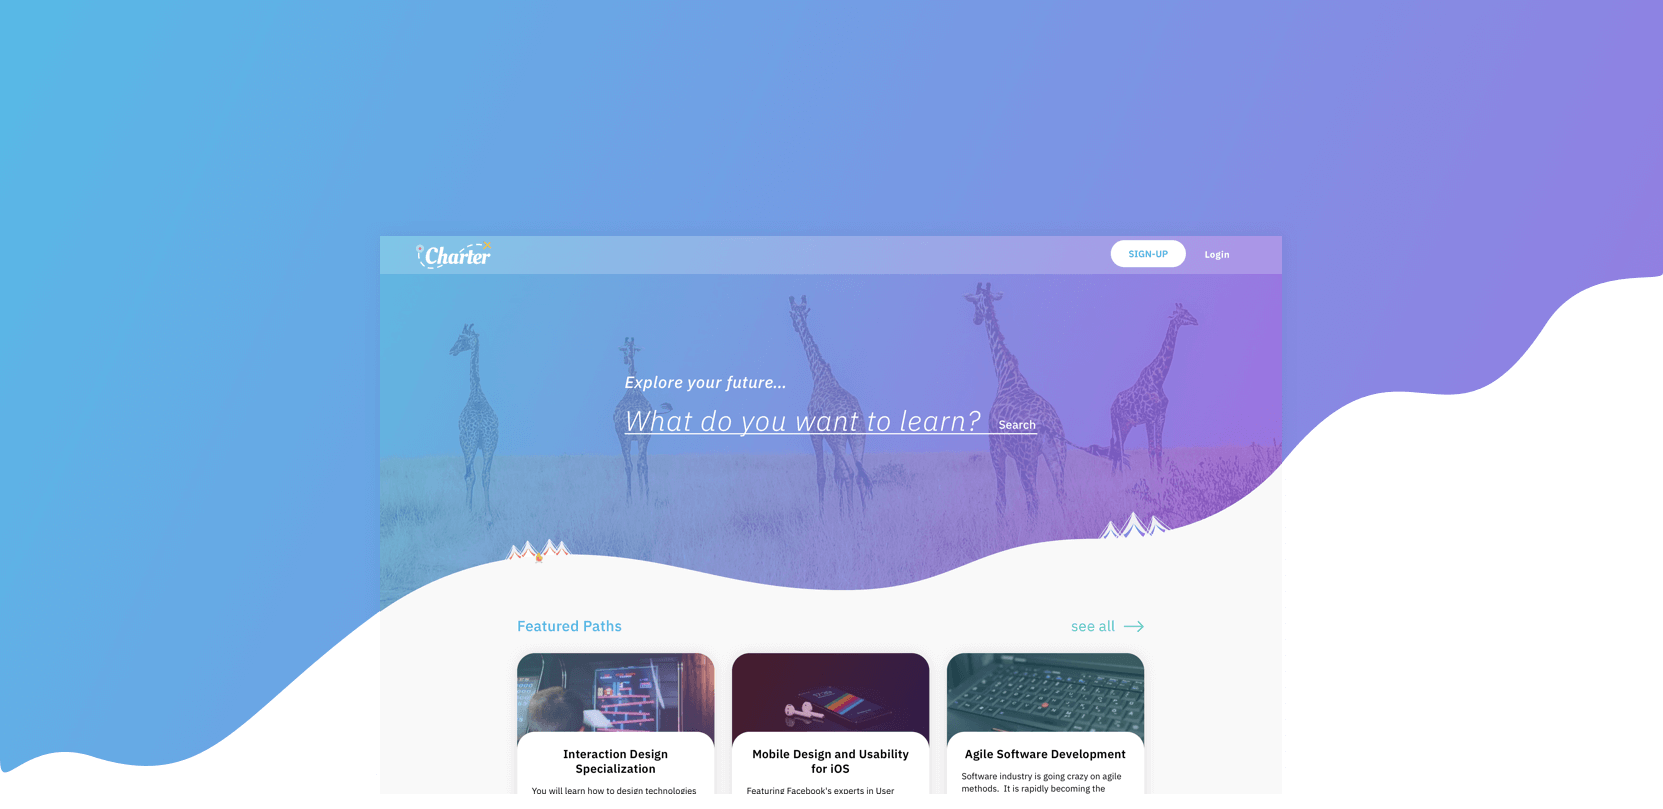
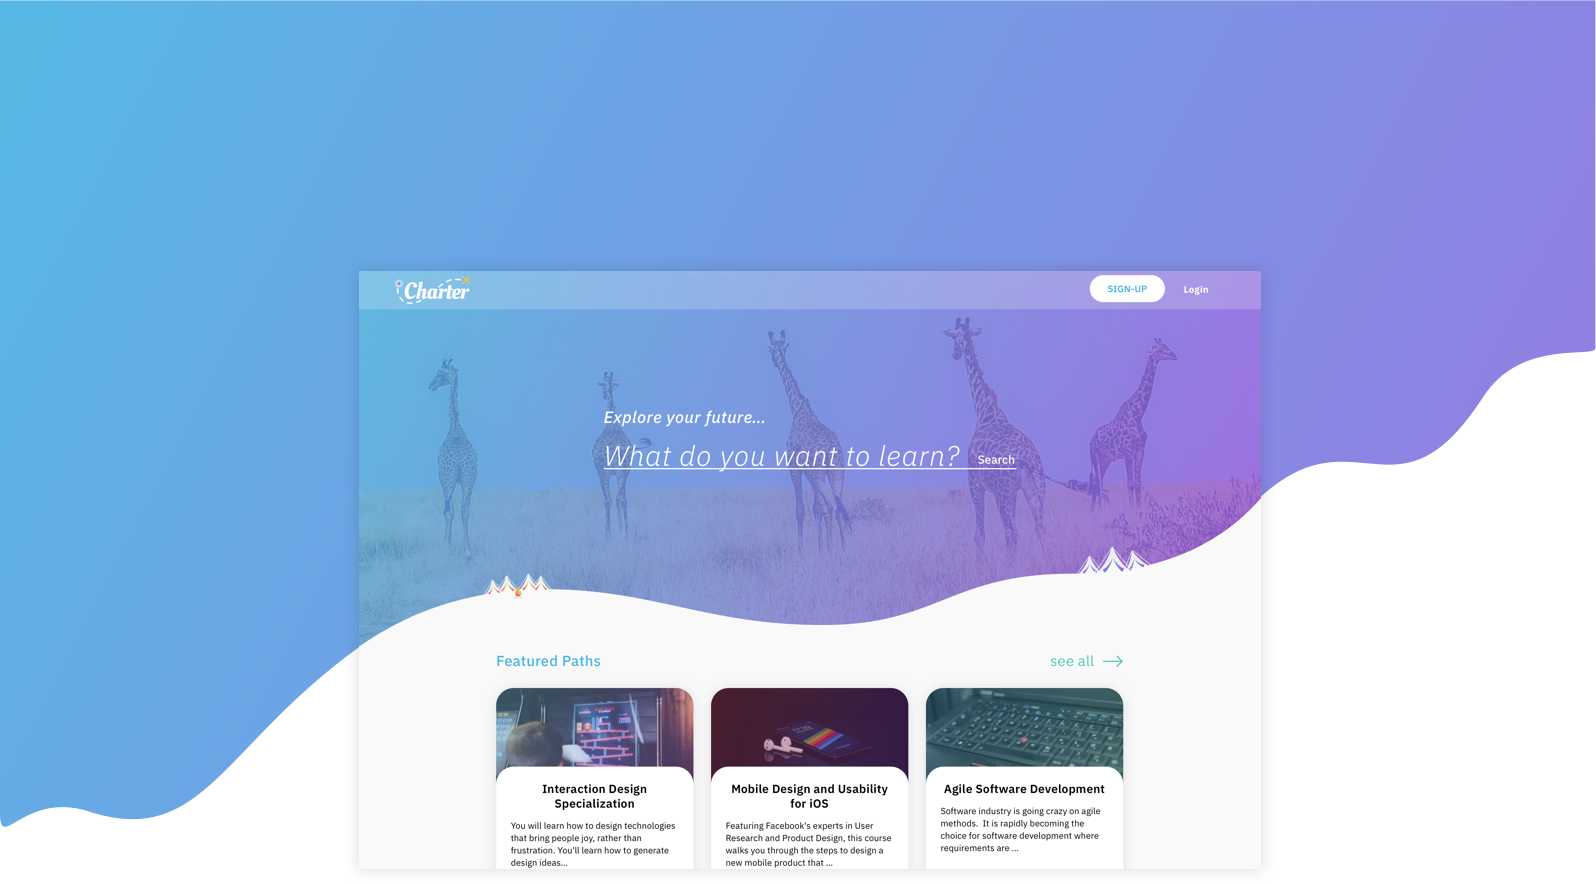
Added additional media queries

diff --git a/charter.html b/charter.html
@@ -82,7 +82,7 @@
 
 
       <section class="colored">
-        <div class="center ">
+        <div class="">
           <div class="  small-third align-left mobile-full">
             <h4 class="h4 align-left ">Design Role</h4>
             <ul class="med-text">
@@ -106,15 +106,15 @@
               <li class="design-role">Visual Design</li>
             </ul>
           </div>
-          <div class=" small-third align-left mobile-full">
+          <div class=" large-third-2 mobile-full">
             <h4 class="h4 align-left">Tools</h4>
-            <ul class="med-text left">
+            <ul class="med-text align-left left">
               <li class="design-role">Sketch</li>
               <li class="design-role">InVision</li>
               <li class="design-role">Photoshop</li>
               <li class="design-role">Illustrator</li>
             </ul>
-            <ul class="med-text right">
+            <ul class="med-text  align-left right">
               <li class="design-role">Usability Hub</li>
               <li class="design-role">Maze</li>
               <li class="design-role">Zeplin</li>
@@ -202,8 +202,8 @@
               <p class="percent-desc">said they wished better resources were suggested to them</p>
             </div>
             <div class="third mobile-half">
-              <h3>91%</h3>
-              <p class="percent-desc">said that knowing who you are sharing with and who has access to a file is very important</p>
+              <h3>65%</h3>
+              <p class="percent-desc">said that third party reviews and instructor bios weighed on their decision to take a course heavily.</p>
             </div>
             <div class="third mobile-half">
               <h3>44%</h3>
@@ -399,26 +399,20 @@
             <div class="half align-top">
               <img class="ab-desk-img" src="images/charter/iter-courseinfo-1.png" alt="home screen iteration 1"/>
               <p class="center caption">Iteration 1</p>
-              <div class="persona-l padding-top">
-                <p class="caseStudy-text">1. &ldquo;Fun but very feminine&rdquo;</p>
-                <p class="caseStudy-text">2. &ldquo;Are the things in the bubbles the only types of courses on this site?&rdquo; </p>
-                <p class="caseStudy-text">3. &ldquo;Why isn’t there a search bar?&rdquo;</p>
-              </div>
             </div>
             <div class="half align-top">
               <img class="ab-desk-img"src="images/charter/iter-courseinfo-2.png" alt="home screen iteration 2"/>
               <p class="center caption">Iteration 2</p>
-              <div class="persona-r padding-top">
-                <p class="caseStudy-text">1. &ldquo;what us this site for?&rdquo;</p>
-                <p class="caseStudy-text">2. &ldquo;Why do you ask me what I want to learn without giving me somewhere to type?&rdquo;</p>
-              </div>
             </div>
             <div class="iteration-info">
               <section class="course-info align-top">
-                <img class="" src="images/charter/iter-courseinfo-info.png" alt="home screen iteration 3"/>
-                <p class="center caption">Iteration 2</p>
+                <img class="off" src="images/charter/iter-courseinfo-info.png" alt="home screen iteration 3"/>
+                <p class="center caption off ">Iteration 2</p>
               </section>
               <section class="quarter align-top">
+                <div class="info-snippet">
+                  <p class="caseStudy-text ">These are the seven changes that were made in the course page.</p>
+                </div>
                 <div class="info-snippet">
                   <div class="number-oval left"><p>1</p></div>
                   <p class="caseStudy-text ">Adding a back arrow made it more obvious when skimming the page that this is a backlink</p>
@@ -504,7 +498,6 @@
                   <p class="caseStudy-text">Lets put all of that branding and user testing to work.</p>
                 </div>
                 <div class="">
-                  <img class="off hidden"src="videos/charter2.gif"/>
                   <div class="align-top col-1-desktop ">
                     <img class=" screen hidden" src="images/charter/final-1.png" alt="final screens for desktop"/>
                     <img class=" screen hidden" src="images/charter/final-2.png" alt="final screens for desktop"/>

diff --git a/styles/charter.css b/styles/charter.css
@@ -1,12 +1,12 @@
 body{
   background-color: #F9F9F9;
 }
-header.main{
+header.main {
   background-image: url(../images/charter/large-charter-3.png);
-  background-size: cover;
-  background-repeat:none;
-  background-position: center;
-  height:800px;
+  background-size: contain;
+  background-repeat: no-repeat;
+  background-position: top;
+  height:940px;
   width:100%;
   max-width: none;
 }
@@ -36,6 +36,15 @@ header .label{color:white; }
 }
 .design-role, .colored h4, .colored h3, .colored h2, .colored p{
   color:white;
+}
+.large-third-2{
+  display: inline-block;
+  vertical-align: top;
+  text-align: left;
+  width:24%;
+}
+.small-third {
+    width: 20%;
 }
 
 .box {
@@ -100,6 +109,9 @@ header .label{color:white; }
 .info-snippet{
   display: inline-block;
 }
+.quarter .info-snippet p.caseStudy-text{
+  font-size: 16px;
+}
 
 .subhead{
   color: #46b7e5;
@@ -139,7 +151,27 @@ header .label{color:white; }
 }
 
 /*@media screen and (max-width: 1050px) {*/
+@media screen and (max-width: 1400px) {
+  header.main {
+    height: 790px;
+  }
+  .iteration-info .quarter {
+    width: 34%;
+    padding-top: 15px;
+  }
+  .course-info {
+      width: 65%;
+      display: inline-block;
+  }
+
+}
+
+
+
 @media screen and (max-width: 1300px) {
+  header.main {
+    height: 700px;
+  }
   .info-snippet {
     display: inline-block;
     width: 45%;
@@ -159,7 +191,18 @@ header .label{color:white; }
   section.course-info{
     margin-bottom: 0;
   }
+  .large-third{
+    width:39%;
+  }
+  .large-third-2{
+    width:26%;
+  }
+}
 
+@media screen and (max-width: 1080px) {
+  .large-third-2 .left, .large-third-2 .right{
+    float:none;
+  }
 }
 
 @media screen and (max-width: 1024px) {
@@ -171,10 +214,10 @@ header .label{color:white; }
 
   header.main{
     background-image: url(../images/charter/tall-charter.png);
-    background-size: cover;
+    background-size: contain;
     background-repeat:no-repeat;
-    background-position: center;
-    height:800px;
+    background-position: top;
+    height:790px;
     width:100%;
     max-width: none;
   }
@@ -282,12 +325,29 @@ header .label{color:white; }
     margin-top: 80px;
     width:20%;
   }
+
+  .iteration-info .off{
+    display: none;
+  }
   .main-charter {
     background-image: url(../images/charter/bg-bottom-2.png);
     background-size: contain;
     background-repeat: no-repeat;
     background-position: top;
     padding: 20px 7%;
+  }
+  .info-snippet{
+         margin:10px 0;
+  }
+  .number-oval {
+    background-color: unset;
+    width: unset;
+    height: unset;
+    border-radius: 50%;
+  }
+  .number-oval p{
+    color:black;
+    line-height: unset;
   }
   .num-list {
     font-family: 'PaulGrotesk-regular';
@@ -327,6 +387,9 @@ header .label{color:white; }
     padding: 0px 10%;
   }
 
+  .large-third-2 {
+      width: 100%;
+  }
   .num-list {
     letter-spacing: .02rem;
     line-height: 23px;
